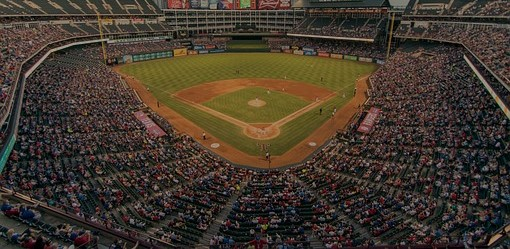
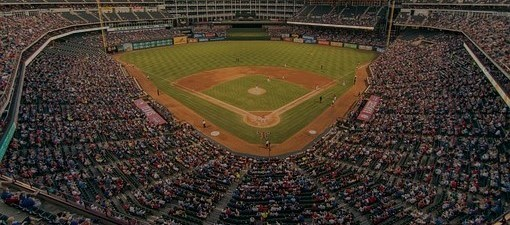
feat: sport cartegory

diff --git a/fe/user/nnz/lib/src/pages/category/sports.dart b/fe/user/nnz/lib/src/pages/category/sports.dart
@@ -14,9 +14,9 @@ class _SportsPageState extends State<SportsPage> {
   String sportEvent = ImagePath.bsbB;
 
   final List<String> _images = [
-    'https://picsum.photos/id/237/200/300',
-    'https://picsum.photos/id/238/200/300',
-    'https://picsum.photos/id/239/200/300',
+    '축구',
+    '야구',
+    '농구',
   ];
 
   @override
@@ -30,75 +30,67 @@ class _SportsPageState extends State<SportsPage> {
         centerTitle: true,
       ),
       body: Column(
+        mainAxisAlignment: MainAxisAlignment.start,
         children: [
           Expanded(
             child: Stack(
+              alignment: Alignment(0, -0.8),
               children: [
-                Positioned.fill(
-                  child: Container(
-                    decoration: BoxDecoration(
-                      borderRadius: BorderRadius.circular(10),
-                      image: DecorationImage(
+                Container(
+                  decoration: BoxDecoration(
+                    image: DecorationImage(
                         image: AssetImage(sportEvent),
-                      ),
-                    ),
-                  ),
-                ),
-                Positioned.fill(
-                  child: Container(
-                    color: Colors.black.withOpacity(0.3),
+                        alignment: Alignment.topCenter),
                   ),
                 ),
                 Container(
-                  height: 130,
-                  child: Center(
-                    child: CarouselSlider(
-                      options: CarouselOptions(
-                        height: 800,
-                        autoPlay: true,
-                        enlargeCenterPage: true,
-                        enableInfiniteScroll: true,
-                        viewportFraction: 1,
-                        onPageChanged: (int index, _) {
-                          setState(() {
-                            if (index == 0) {
-                              sportEvent = ImagePath.socB;
-                            } else if (index == 1) {
-                              sportEvent = ImagePath.bsbB;
-                            } else {
-                              sportEvent = ImagePath.bkbB;
-                            }
-                          });
-                        },
-                      ),
-                      items: _images.map((image) {
-                        return Builder(
-                          builder: (BuildContext context) {
-                            int index = _images.indexOf(image);
-                            String assetImage;
-
-                            if (index == 0) {
-                              assetImage = ImagePath.socB;
-                            } else if (index == 1) {
-                              assetImage = ImagePath.bsbB;
-                            } else {
-                              assetImage = ImagePath.bkbB;
-                            }
-                            return Container(
-                              width: MediaQuery.of(context).size.width,
-                              margin: EdgeInsets.symmetric(horizontal: 10.0),
-                              decoration: BoxDecoration(
-                                borderRadius: BorderRadius.circular(10),
-                                image: DecorationImage(
-                                  image: AssetImage(assetImage),
-                                  fit: BoxFit.cover,
-                                ),
-                              ),
-                            );
-                          },
-                        );
-                      }).toList(),
+                  height: 200,
+                  child: CarouselSlider(
+                    options: CarouselOptions(
+                      height: 800,
+                      autoPlay: true,
+                      enlargeCenterPage: true,
+                      enableInfiniteScroll: true,
+                      viewportFraction: 0.8,
+                      onPageChanged: (int index, _) {
+                        setState(() {
+                          if (index == 0) {
+                            sportEvent = ImagePath.socB;
+                          } else if (index == 1) {
+                            sportEvent = ImagePath.bsbB;
+                          } else {
+                            sportEvent = ImagePath.bkbB;
+                          }
+                        });
+                      },
                     ),
+                    items: _images.map((image) {
+                      return Builder(
+                        builder: (BuildContext context) {
+                          int index = _images.indexOf(image);
+                          String assetImage;
+
+                          if (index == 0) {
+                            assetImage = ImagePath.socB;
+                          } else if (index == 1) {
+                            assetImage = ImagePath.bsbB;
+                          } else {
+                            assetImage = ImagePath.bkbB;
+                          }
+                          return Container(
+                            width: MediaQuery.of(context).size.width,
+                            margin: EdgeInsets.symmetric(horizontal: 10.0),
+                            decoration: BoxDecoration(
+                              borderRadius: BorderRadius.circular(10),
+                              image: DecorationImage(
+                                image: AssetImage(assetImage),
+                                fit: BoxFit.cover,
+                              ),
+                            ),
+                          );
+                        },
+                      );
+                    }).toList(),
                   ),
                 ),
               ],
